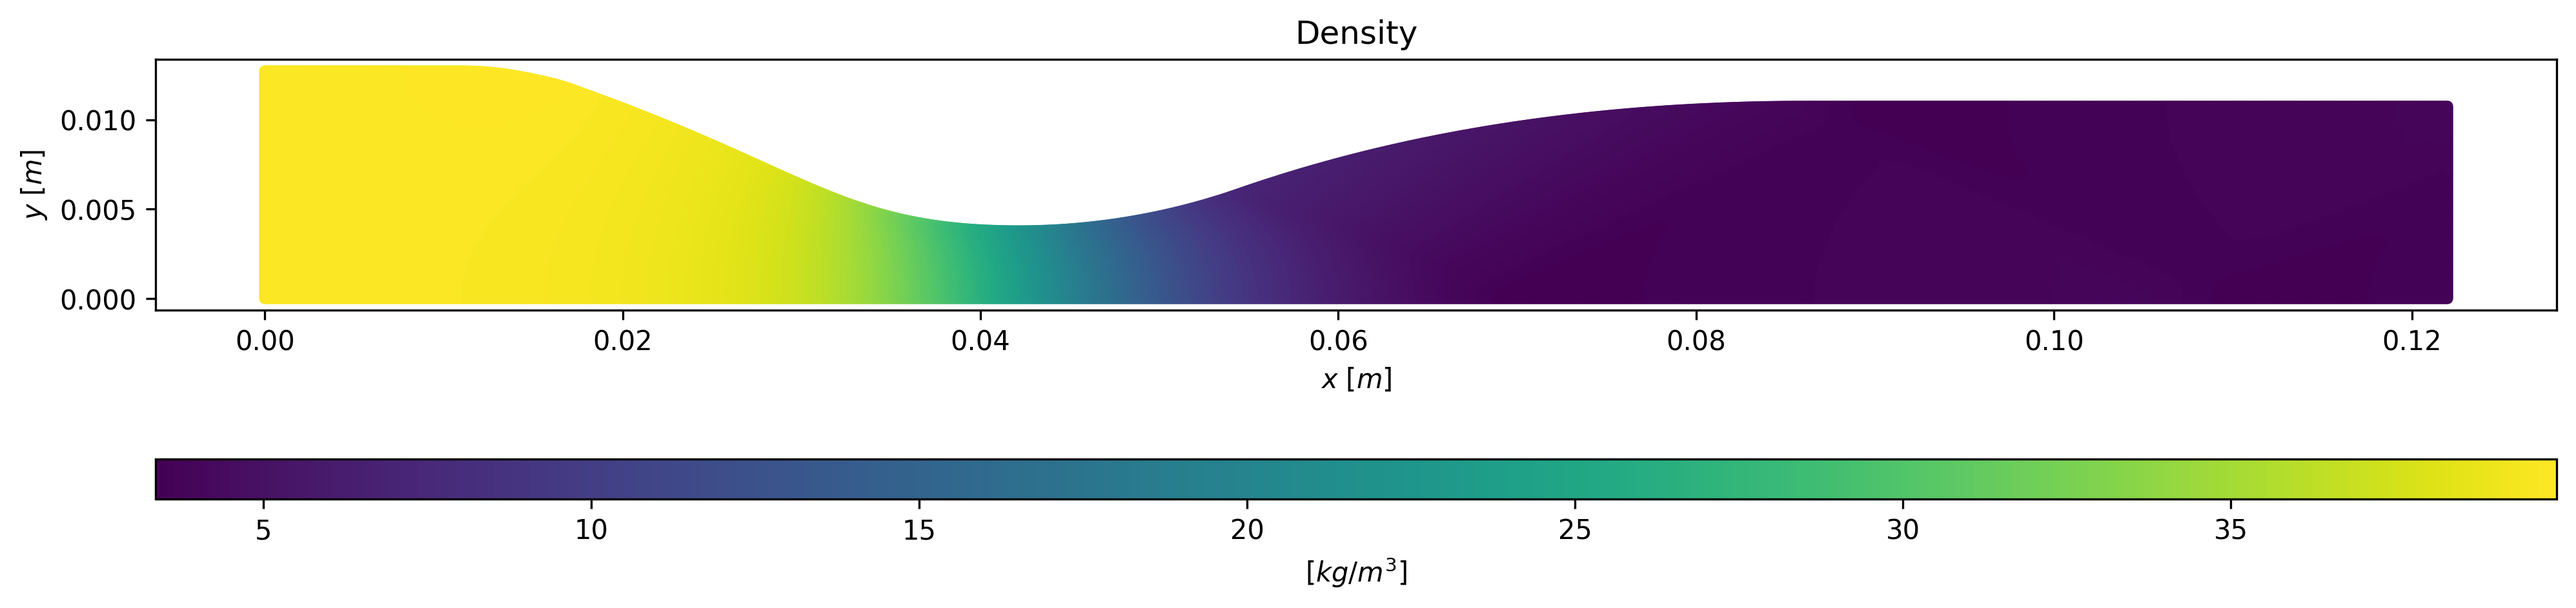
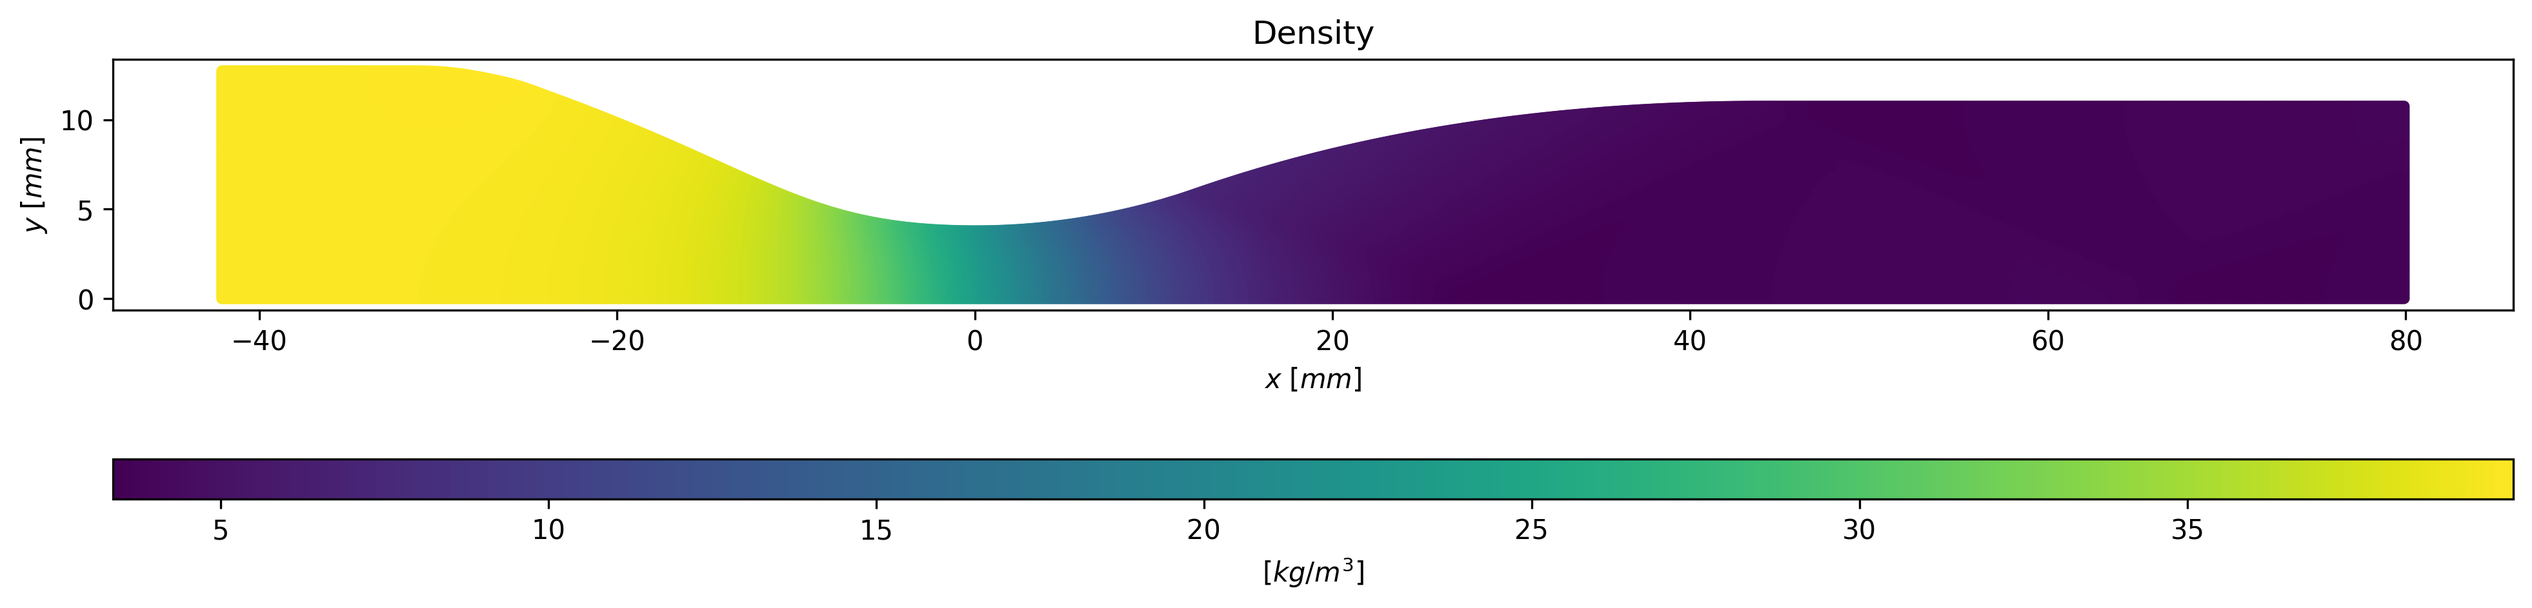
changed cfd gradient plots to start at 0 and be scaled properly

diff --git a/d02_cfd_comparisons.py b/d02_cfd_comparisons.py
@@ -1,3 +1,4 @@
+from matplotlib import scale
 from matplotlib.ticker import MaxNLocator
 import pyvista as pv
 import numpy as np
@@ -49,24 +50,65 @@ def get_straight_values(x, y, density_prime):
     new_x = []
     line = []
     for i in range(len(x)):
-        if y[i] == 0:
+        if y[i] == 0.0:
             line.append(density_prime[i])
             new_x.append(x[i])
 
     return new_x, line
 
 
+def get_throat_position(path, scale=1.0, n_bins=300):
+    x, y, density, grad_mag = get_cfd_values(path)
+
+    x = x * scale
+    y = y * scale
+
+    edges = np.linspace(x.min(), x.max(), n_bins + 1)
+    xc = 0.5 * (edges[:-1] + edges[1:])
+    ind = np.clip(np.digitize(x, edges) - 1, 0, n_bins - 1)
+
+    y_min = np.full(n_bins, np.nan)
+    y_max = np.full(n_bins, np.nan)
+
+    for i in range(n_bins):
+        yi = y[ind == i]
+        if len(yi) > 0:
+            y_min[i] = yi.min()
+            y_max[i] = yi.max()
+
+    h = y_max - y_min
+    i_t = np.nanargmin(h)
+
+    x_t = xc[i_t]
+
+    return x_t
+
+
+def get_cfd_values_shifted(path, scale=1000, n_bins=500):
+    x, y, density, grad_mag = get_cfd_values(path)
+
+    x = x * scale
+    y = y * scale
+
+    x_t = get_throat_position(path, scale=scale, n_bins=n_bins)
+
+    x = x - x_t
+
+    return x, y, density, grad_mag
+
+
 u = np.load("u_HS.npy")
 v = np.load("v_HS.npy") # V is upwards, U is rightwards
 mask = cv.imread("Correlable_pics/BOS_12_11_ref_masked.tif", cv.IMREAD_GRAYSCALE)
 
-x, y, density, density_prime = get_cfd_values("Wavelet_noise_experiments/220/BOS_12_11_1/flow_MUSCL.vtu")
+# x, y, density, density_prime = get_cfd_values("Wavelet_noise_experiments/220/BOS_12_11_1/flow_MUSCL.vtu")
+x, y, density, density_prime = get_cfd_values_shifted("Wavelet_noise_experiments/220/BOS_12_11_1/flow_MUSCL.vtu")
 
 new_x, line = get_straight_values(x, y, density_prime)
 
 plt.scatter(new_x, line, s=10)
-plt.xlabel(r"$x$ [$m$]")
-plt.ylabel(r"Density Gradient [$kg/m^2$]")
+plt.xlabel(r"$x$ [$mm$]")
+plt.ylabel(r"Density Gradient [$kg/m^4$]")
 plt.title(r"Density Gradient ($y=0$)")
 plt.savefig("Density_Gradient_y0.png")
 plt.show()
@@ -76,8 +118,8 @@ plt.close()
 fig, ax = plt.subplots(figsize=(16, 4))
 sc = ax.scatter(x, y, c=density, s=10)
 
-ax.set_xlabel(r"$x$ [$m$]")
-ax.set_ylabel(r"$y$ [$m$]")
+ax.set_xlabel(r"$x$ [$mm$]")
+ax.set_ylabel(r"$y$ [$mm$]")
 ax.set_title("Density")
 ax.set_aspect('equal', adjustable='box')
 
@@ -92,13 +134,13 @@ plt.close(fig)
 fig, ax = plt.subplots(figsize=(16, 4))
 sc = ax.scatter(x, y, c=density_prime, s=10)
 
-ax.set_xlabel(r"$x$ [$m$]")
-ax.set_ylabel(r"$y$ [$m$]")
+ax.set_xlabel(r"$x$ [$mm$]")
+ax.set_ylabel(r"$y$ [$mm$]")
 ax.set_title("Density Gradient")
 ax.set_aspect('equal', adjustable='box')
 
 cbar = fig.colorbar(sc, ax=ax, orientation='horizontal', pad=0.25, fraction=0.1, aspect=60)
-cbar.set_label(r"[$kg/m^2$]")
+cbar.set_label(r"[$kg/m^4$]")
 
 fig.savefig("Density_Gradient.png", dpi=300, bbox_inches="tight")
 plt.show()

diff --git a/D02_CC_densitygrad.py b/D02_CC_densitygrad.py
@@ -170,15 +170,15 @@ x, y, density_gradient = calc_density_gradient_all_points(
 fig, ax = plt.subplots(figsize=(16, 4))
 sc = ax.scatter(x, y, c=density_gradient, s=10)
 
-ax.set_xlabel(r"$x$ [$m$]")
-ax.set_ylabel(r"$y$ [$m$]")
+ax.set_xlabel(r"$x$ [$mm$]")
+ax.set_ylabel(r"$y$ [$mm$]")
 ax.set_title("Density Gradient")
 ax.set_aspect('equal', adjustable='box')
 
 cbar = fig.colorbar(sc, ax=ax, orientation='horizontal', pad=0.25, fraction=0.1, aspect=60)
-cbar.set_label(r"[$kg/m^2$]")
+cbar.set_label(r"[$kg/mm^4$]")
 
-fig.savefig("Density_Gradient.png", dpi=300, bbox_inches="tight")
+fig.savefig("Density_Gradient_cc.png", dpi=300, bbox_inches="tight")
 plt.show()
 plt.close(fig)
 
